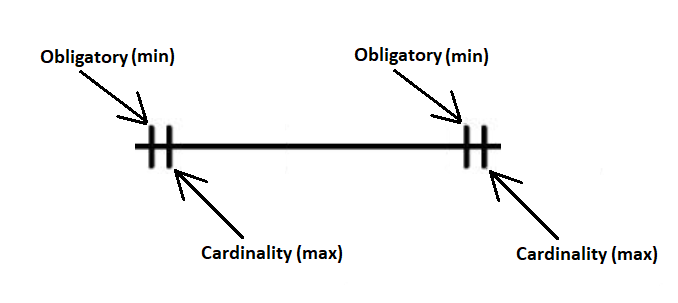
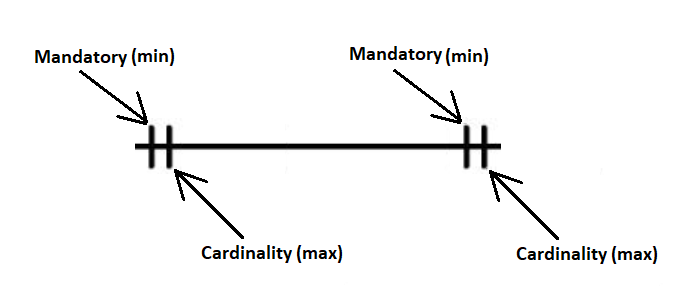
Add 'how to read the relationships' tips

Changed region(s): [[0.4956, 0.1485, 0.6504, 0.2079], [0.031, 0.1485, 0.1858, 0.2376]]

diff --git a/modules/database-theory-and-practice/modules/theory/database/cardinality.md b/modules/database-theory-and-practice/modules/theory/database/cardinality.md
@@ -2,19 +2,21 @@
 
 ## Contents
 
- - [Obligatory (Obrigatoriedade) & Cardinality](#intro)
+ - [Mandatory (Obrigatoriedade) & Cardinality](#intro)
  - [Reading relationship cardinality](#reading-cardinality)
  - [One to One](#one-to-one)
  - [One to Many](#one-to-many)
  - [Many to One](#many-to-one)
  - [Many to Many](#many-to-many)
- - [Cardinality Notations (examples)](#examples)
+ - **Tips & Tricks:**
+   - [How to read the relationships](#read-r)
+   - [Cardinality Notations (examples)](#examples)
 
 ---
 
 <div id="intro"></div>
 
-## Obligatory (Obrigatoriedade) & Cardinality
+## Mandatory (Obrigatoriedade) & Cardinality
 
 Before starting with database cardinality, let's understand some concepts. First, see the image below:
 
@@ -23,7 +25,7 @@ Before starting with database cardinality, let's understand some concepts. First
 See that:
 
  - **The first trace:**
-   - Always represent the "obligatory".
+   - Always represent the "mandatory".
  - **the second trace:**
    - Always represent the "cardinality".
 
@@ -32,16 +34,16 @@ For example, see the image below to understand more easily:
 ![img](images/trace-approach-names.png)  
 
 **NOTE:**  
-See we have different **obligatory** and **cardinality**. For example, the tables **users** and **profiles**:
+See we have different **mandatory** and **cardinality**. For example, the tables **users** and **profiles**:
 
 ![img](images/users-profiles.png)  
 
 > **NOTE:**  
-> **users** and **profiles** have different <u>obligatory</u>:
-> - **users** table <u>obligatory</u> need minimum one (1) user.
-> - **profiles** table <u>no obligatory</u> need minimum one (can be zero | 0) profile.
+> **users** and **profiles** have different <u>mandatory</u>:
+> - **users** table <u>mandatory</u> need minimum one (1) user.
+> - **profiles** table <u>no mandatory</u> need minimum one (can be zero | 0) profile.
 
-There a numeric approach to represent that **obligatory** and **cardinality**:
+There a numeric approach to represent that **mandatory** and **cardinality**:
 
 ![img](images/number-approach.png)  
 
@@ -54,13 +56,13 @@ See we have the same representation, however, using numbers.
 
 ## Reading relationship cardinality
 
-To read **relationship cardinality** between tables first we <u>ignore obligatory in the tables</u> and <u>only focus in tables cardinalities</u>.
+To read **relationship cardinality** between tables first we <u>ignore mandatory in the tables</u> and <u>only focus in tables cardinalities</u>.
 
 For example, see the **relationship cardinality** between **Employee** and **Departament** tables:
 
 ![img](images/cardinality-ex01.jpg)
 
-Ignoring obligatory in the tables, we have:
+Ignoring mandatory in the tables, we have:
 
  - **The Employee can work (relationship) for many departments:**
    - one-to-many.
@@ -139,6 +141,19 @@ A relationship between a **students** and **courses** can be considered as <u>ma
 For example, see the image below to understand more easily:
 
 ![img](images/many-to-many.png)  
+
+---
+
+<div id="read-r"></div>
+
+## How to read the relationships
+
+ - **One-to-One (1:1)**
+   - 1 registro de uma tabela se relaciona com outro (1) registro em outra tabela.
+ - **One-to-Many (1:M)**
+   - 1 registro de uma tabela se relaciona com vários registros de outra tabela.
+ - **Many-to-Many (M:N)**
+   - Muitos registros de uma tabela se relacionam com muitos registros de outra tabela.
 
 ---
 
